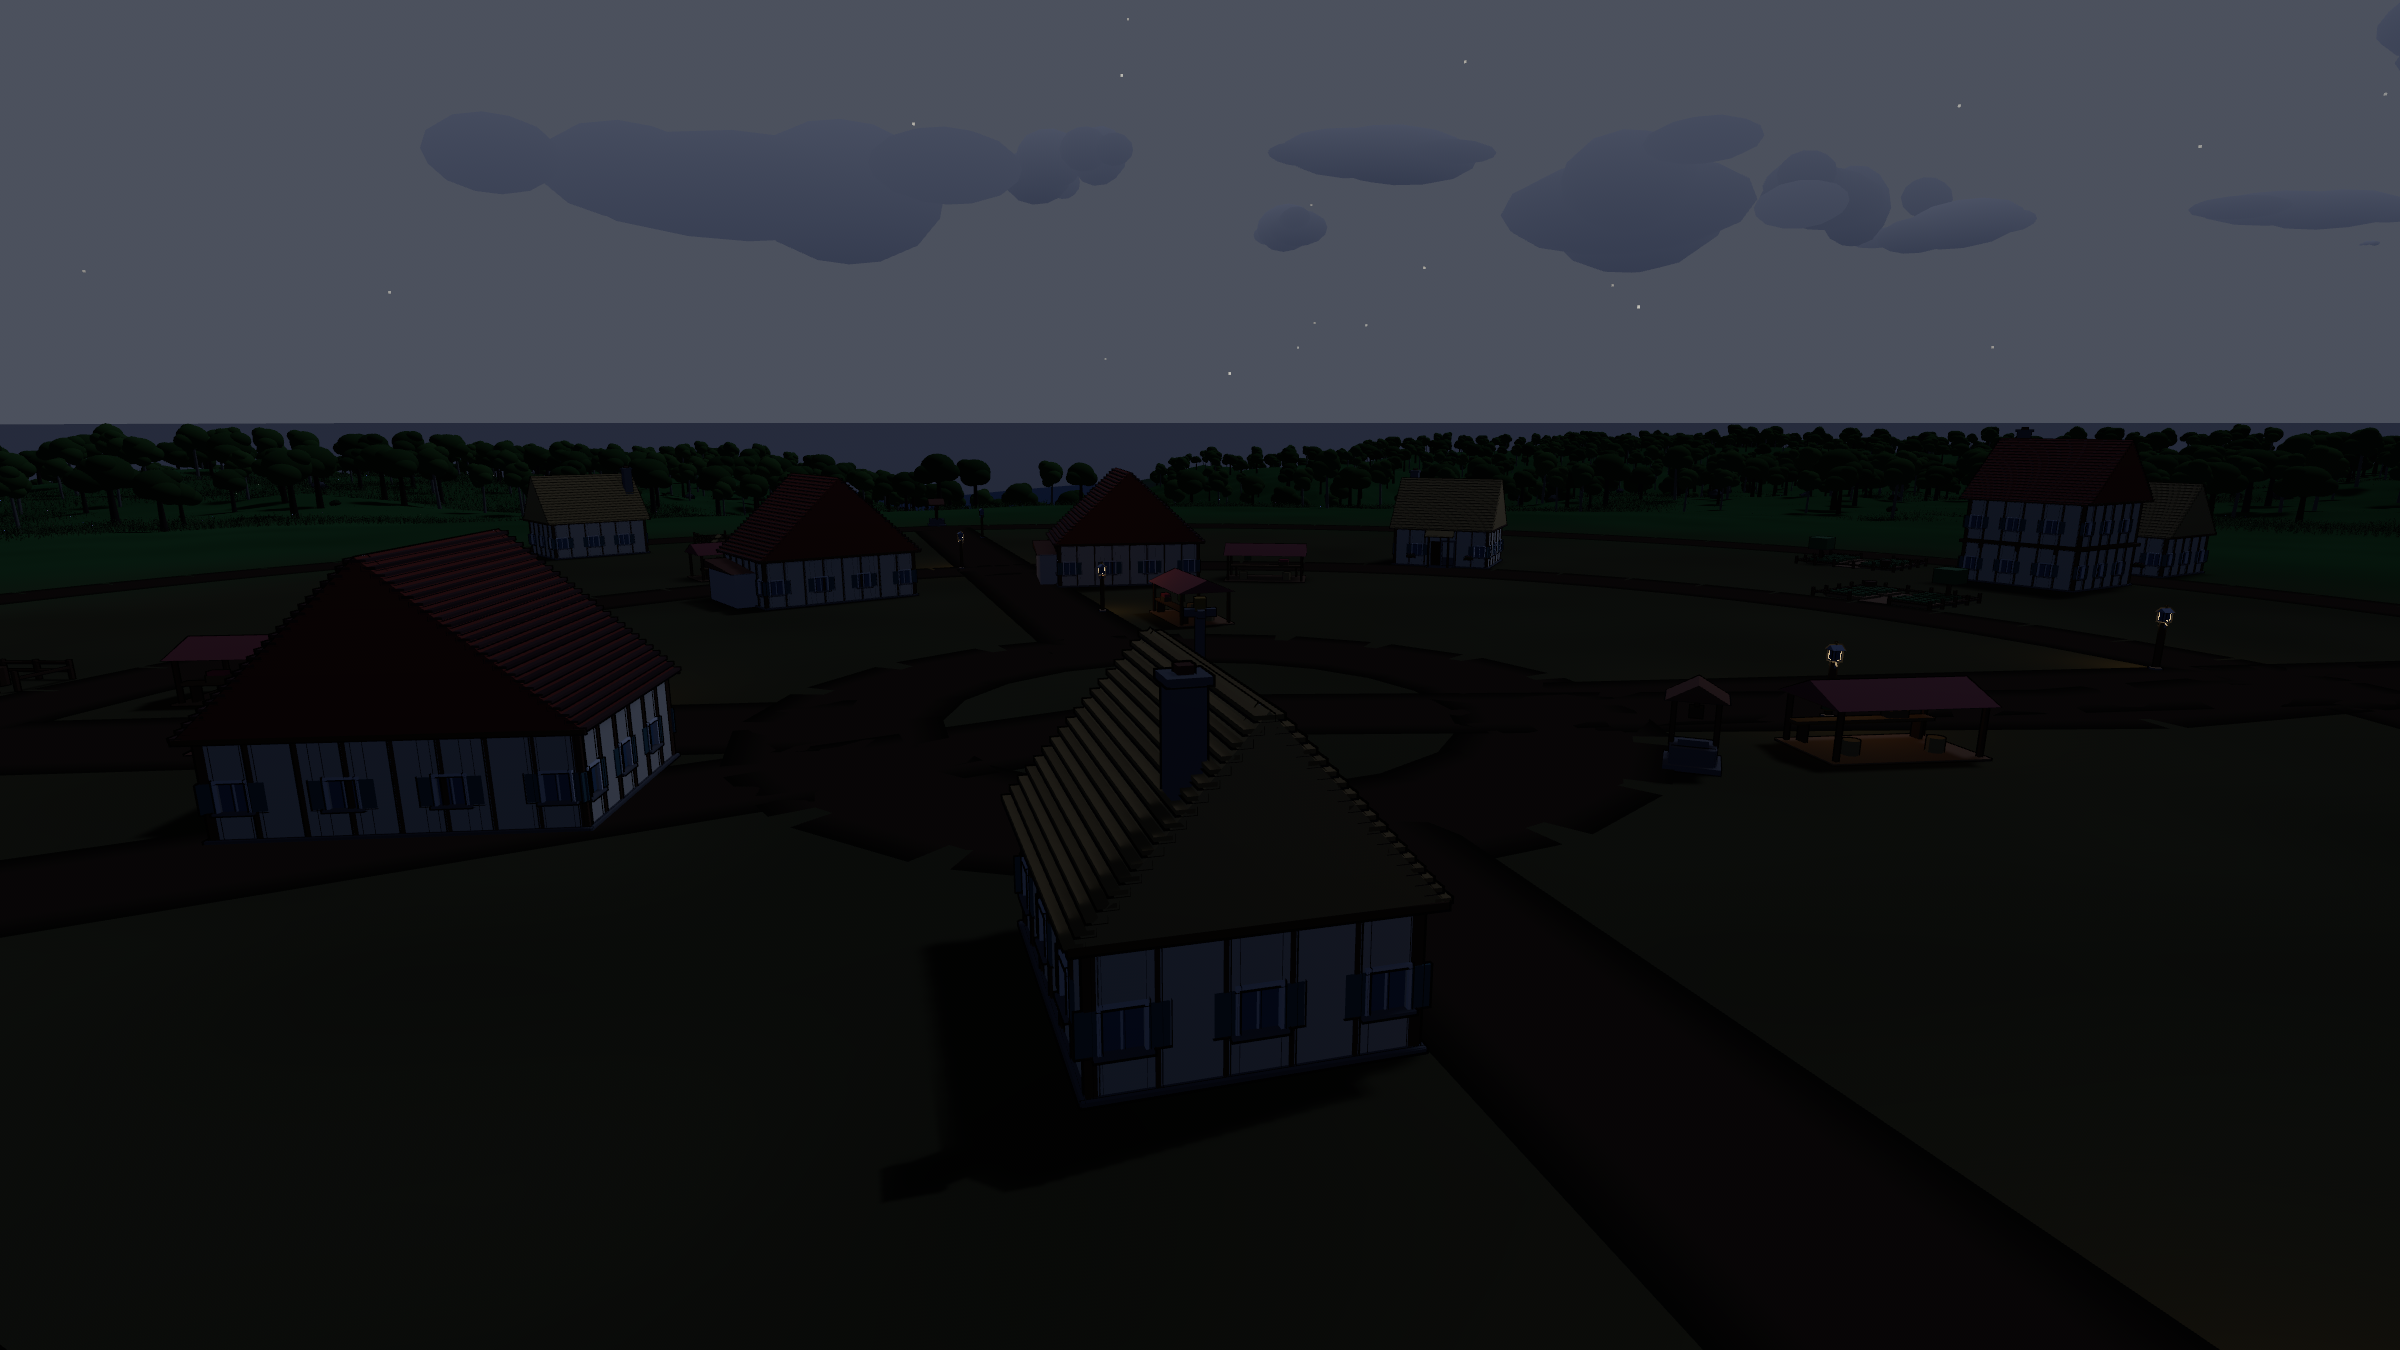
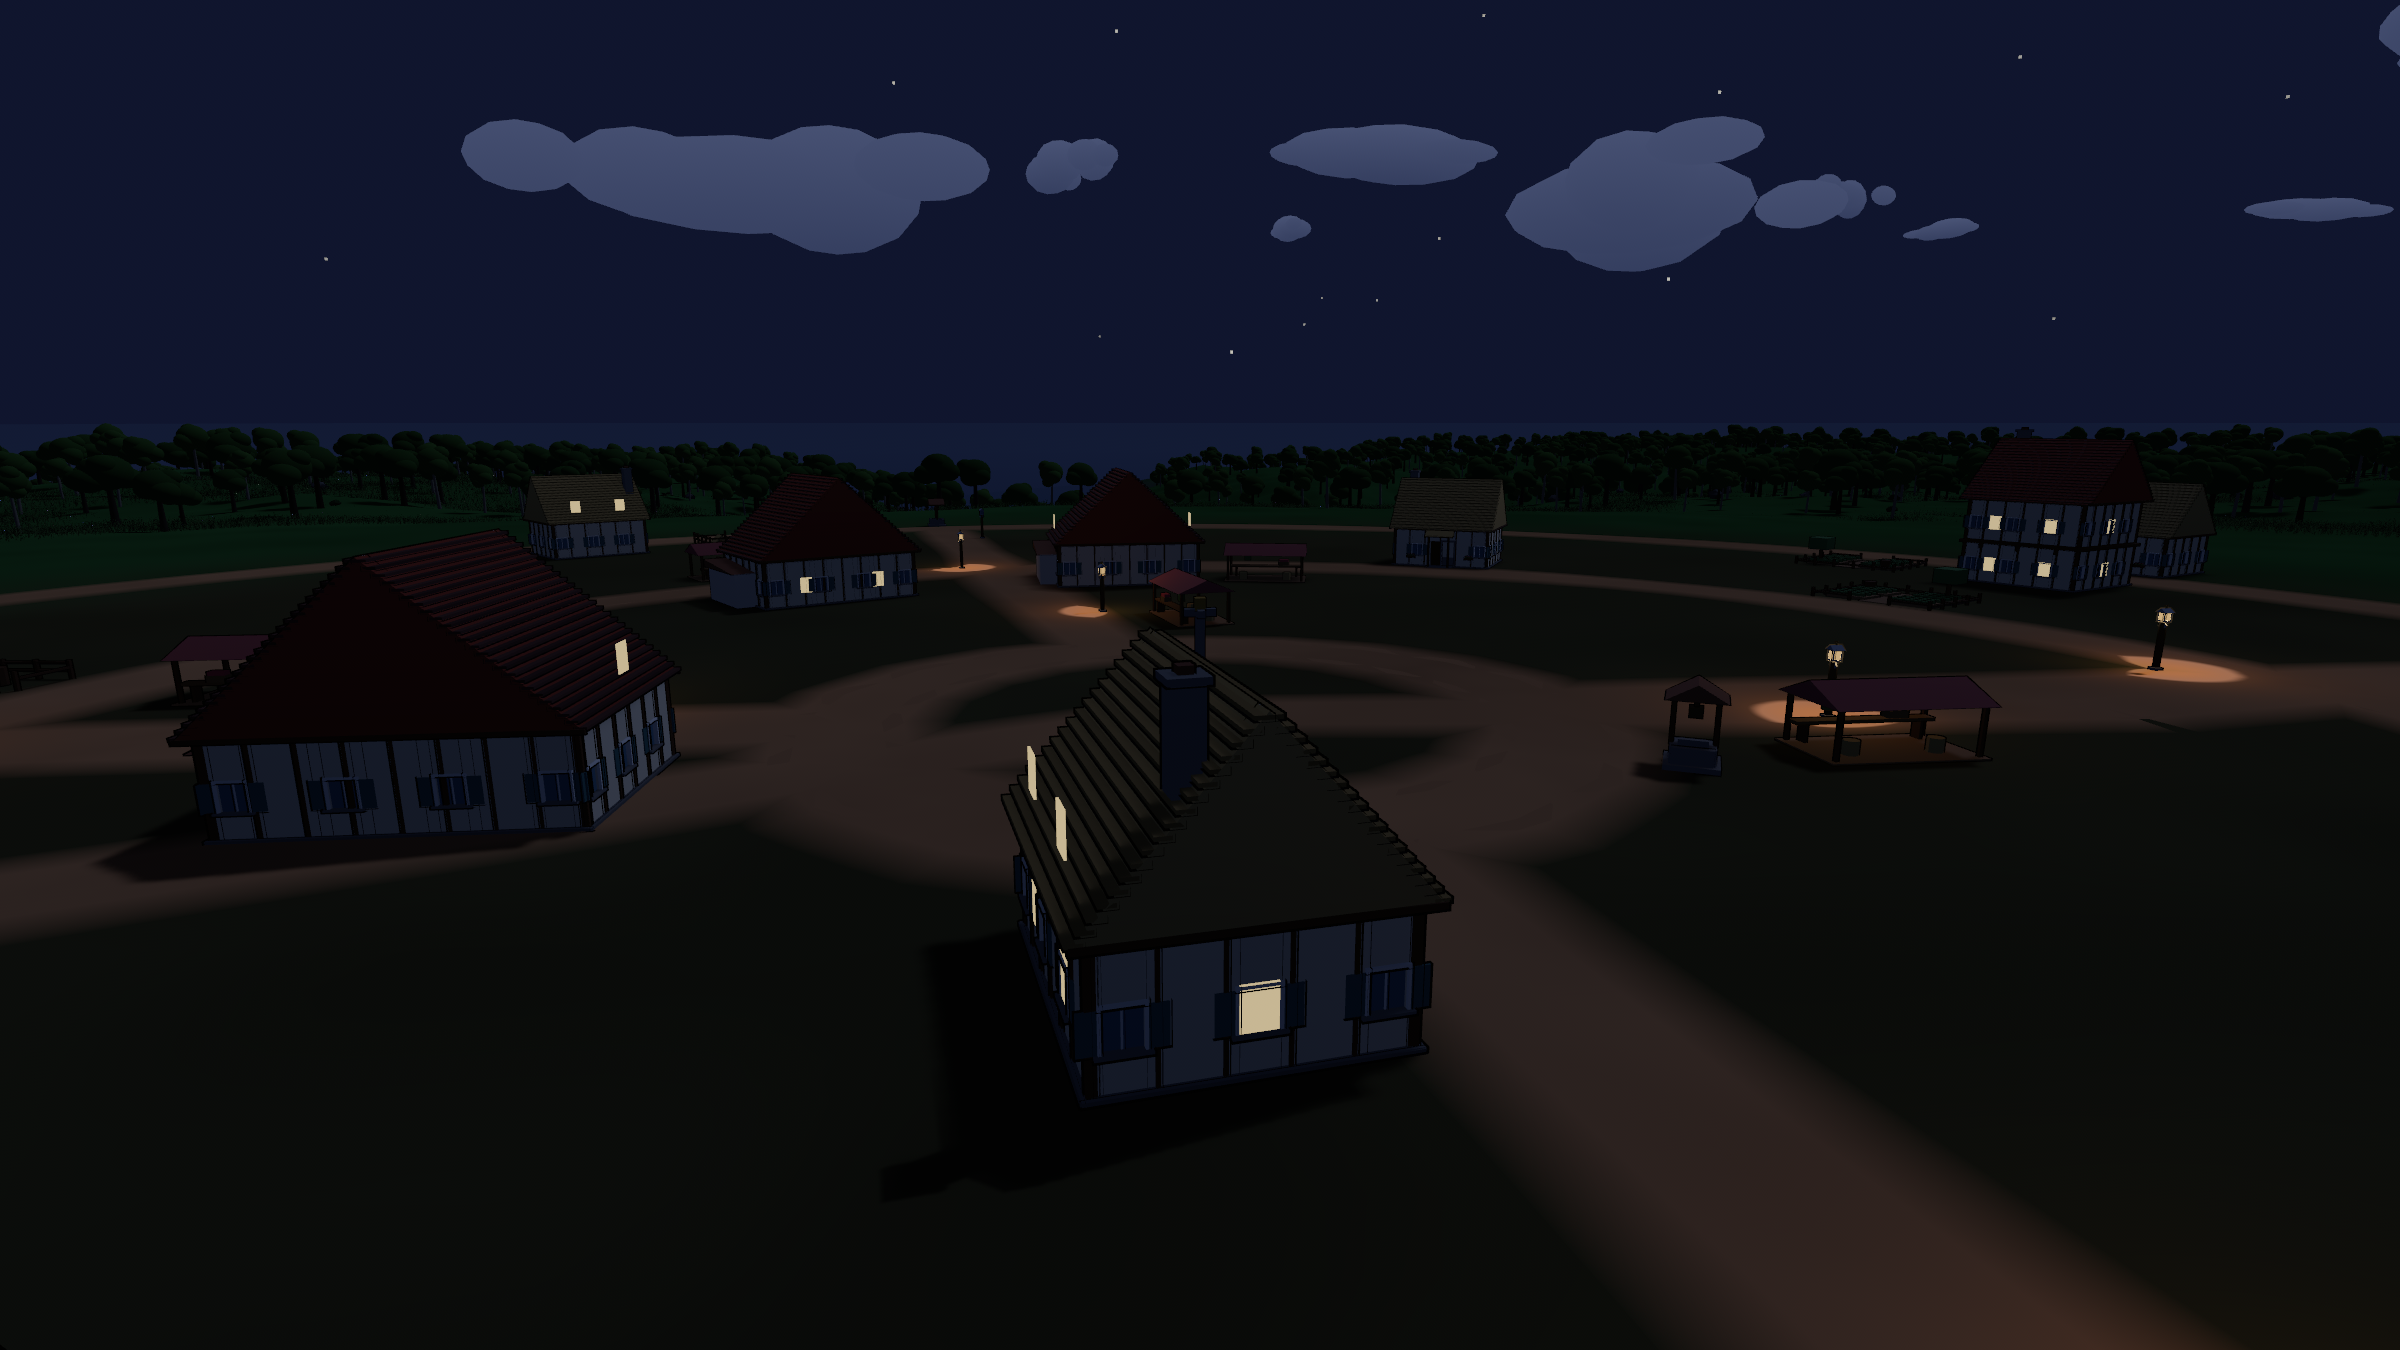
Light the windows, so a settlement reads as inhabited after dark
Lamps lit the street and left the buildings as black slabs against a black sky,
which is the opposite of what a place looks like at night. What says people live
here, from outside, is not the street lighting - it is that some of the windows
are on and most are not.

Which storeys are awake comes from a hash of the building's own position, so a
tower keeps its pattern however often it is streamed in and out, and about a
third are in at any time.

The two ages need different glass. A tower's facade is a curtain wall and a lit
floor is a lit BAND the width of it; a cottage has windows in a wall, and
lighting the whole face of one would read as a building on fire. So the old world
gets panes the size of the windows that are actually there - two across the front
and one down each flank, because a lit room shows at whichever window somebody is
standing near.

Moonlight was already there at 900 lux with its own note about not making a night
that is a black screen with a HUD on it. The gap was never the wilderness; it was
that the towns in it had nobody home.

diff --git a/src/world/lamp.rs b/src/world/lamp.rs
@@ -103,6 +103,45 @@ struct Glass;
 /// How much brighter than its colour the glass burns.
 const GLASS_GLOWS: f32 = 6.0;
 
+/// A storey of a city building with somebody still in it.
+///
+/// # A city with nobody home
+///
+/// Lamps light the street and leave the towers as black slabs against a black sky,
+/// which is the opposite of what a city looks like at night: what says "people live
+/// here" from a distance is not the street lighting, it is that some of the windows
+/// are on and most are not.
+///
+/// A band of glass per lit storey, sat just proud of the facade and emissive, so it
+/// reads at any distance and costs one box. Which storeys are lit comes from a hash
+/// of the building's own position, so a tower's pattern is its own and does not
+/// change as you walk toward it.
+#[derive(Component)]
+struct Awake;
+
+/// How far away a city's windows are still worth lighting, in metres.
+///
+/// Much further than the lamps: a lit tower is what you SEE a city by, and the
+/// whole point is that it reads from outside.
+const AWAKE_WITHIN: f32 = 900.0;
+
+/// What share of a city's storeys have somebody in at night.
+const AWAKE_SHARE: f32 = 0.34;
+
+/// A storey, floor to floor, in each age of the world - `FLOOR_TALL` and `STOREY`
+/// in `dev/art/town.py`.
+const FLOOR_TALL: f32 = 3.4;
+const STOREY: f32 = 3.6;
+
+/// How wide and tall a cottage's window is, in metres, and how far up its storey.
+const PANE: Vec2 = Vec2::new(0.9, 1.15);
+const PANE_UP: f32 = 1.7;
+
+/// What a lit window is coloured. Warmer and paler than a street lamp: it is a room
+/// with a lamp in it seen through glass, not the lamp itself.
+const INDOORS: Color = Color::srgb(1.0, 0.90, 0.68);
+const WINDOW_GLOWS: f32 = 2.6;
+
 /// Stands every lamp near the warden, and takes down the ones left behind.
 pub fn stand_the_lamps(
     mut commands: Commands,
@@ -252,13 +291,127 @@ pub fn light_them_at_night(
     }
 }
 
+/// Turns the lights on in the towers.
+pub fn light_the_windows(
+    mut commands: Commands,
+    mut meshes: ResMut<Assets<Mesh>>,
+    mut paints: ResMut<Assets<StandardMaterial>>,
+    mut pane: Local<Option<(Handle<Mesh>, Handle<StandardMaterial>)>>,
+    clock: Res<crate::sky::TimeOfDay>,
+    anchors: Query<&GlobalTransform, With<StreamAnchor>>,
+    towers: Query<(Entity, &GlobalTransform, &crate::world::town::Standing)>,
+    awake: Query<(Entity, &ChildOf), With<Awake>>,
+) {
+    let Some(anchor) = anchors.iter().next() else {
+        return;
+    };
+    let here = anchor.translation();
+    let up = crate::util::smoothstep(LIT_BELOW, FULLY_LIT_AT, clock.sun_height());
+
+    // By day every window is off, and the panes come down rather than being left
+    // black - a dark quad over the glass is worse than no quad at all.
+    if up <= 0.0 {
+        for (entity, _) in &awake {
+            commands.entity(entity).despawn();
+        }
+        return;
+    }
+
+    let (mesh, paint) = pane
+        .get_or_insert_with(|| {
+            (
+                meshes.add(Cuboid::new(1.0, 1.0, 1.0)),
+                paints.add(StandardMaterial {
+                    base_color: INDOORS,
+                    emissive: LinearRgba::from(INDOORS) * WINDOW_GLOWS,
+                    unlit: true,
+                    ..default()
+                }),
+            )
+        })
+        .clone();
+
+    for (entity, at, standing) in &towers {
+        let Some(storeys) = standing.what.storeys() else {
+            continue;
+        };
+        if at.translation().distance(here) > AWAKE_WITHIN {
+            continue;
+        }
+        if awake.iter().any(|(_, of)| of.parent() == entity) {
+            continue;
+        }
+
+        let foot = at.translation();
+        let footprint = standing.what.footprint();
+        // Which storeys are in, from where the building STANDS - so a tower keeps
+        // its own pattern however often it is streamed in and out.
+        let seed = foot.x.to_bits() ^ foot.z.to_bits();
+        commands.entity(entity).with_children(|on| {
+            for storey in 0..storeys {
+                let roll = crate::world::town::unit(seed, storey as u32 * 31 + 7);
+                if roll > AWAKE_SHARE {
+                    continue;
+                }
+                // Where the light shows, which depends on what the wall is made of.
+                //
+                // A tower's facade is a curtain wall and a lit floor is a lit BAND
+                // the width of it. A cottage has windows in a wall: lighting the
+                // whole face of one would read as a building on fire, so it gets
+                // panes the size of the windows that are actually there.
+                let panes: Vec<(Vec3, Vec3)> = if standing.what.glazed_in_bands() {
+                    let z = storey as f32 * FLOOR_TALL + FLOOR_TALL * 0.67;
+                    // On the two long faces only. A pane a face is four times the
+                    // cost for a building you can see two sides of.
+                    vec![
+                        (
+                            Vec3::new(footprint.x * 0.88, FLOOR_TALL * 0.5, 0.06),
+                            Vec3::new(0.0, z, footprint.y * 0.5 + 0.04),
+                        ),
+                        (
+                            Vec3::new(0.06, FLOOR_TALL * 0.5, footprint.y * 0.88),
+                            Vec3::new(footprint.x * 0.5 + 0.04, z, 0.0),
+                        ),
+                    ]
+                } else {
+                    let z = storey as f32 * STOREY + PANE_UP;
+                    // Two panes across the front and one down each flank - a lit
+                    // room shows at whichever window somebody is standing near.
+                    let mut panes = Vec::new();
+                    for side in [-1.0_f32, 1.0] {
+                        panes.push((
+                            Vec3::new(PANE.x, PANE.y, 0.06),
+                            Vec3::new(side * footprint.x * 0.24, z, -footprint.y * 0.5 - 0.04),
+                        ));
+                        panes.push((
+                            Vec3::new(0.06, PANE.y, PANE.x),
+                            Vec3::new(side * (footprint.x * 0.5 + 0.04), z, 0.0),
+                        ));
+                    }
+                    panes
+                };
+                for (size, at) in panes {
+                    on.spawn((
+                        Awake,
+                        Mesh3d(mesh.clone()),
+                        MeshMaterial3d(paint.clone()),
+                        Transform::from_translation(at).with_scale(size),
+                        Visibility::default(),
+                        bevy::pbr::NotShadowCaster,
+                    ));
+                }
+            }
+        });
+    }
+}
+
 pub struct LampPlugin;
 
 impl Plugin for LampPlugin {
     fn build(&self, app: &mut App) {
         app.add_systems(
             Update,
-            (stand_the_lamps, light_them_at_night)
+            (stand_the_lamps, light_them_at_night, light_the_windows)
                 .chain()
                 .run_if(crate::build::a_world_is_up),
         );

diff --git a/src/world/town.rs b/src/world/town.rs
@@ -553,6 +553,37 @@ impl Building {
         }
     }
 
+    /// How many floors this has, and how tall one is.
+    ///
+    /// Measured off the exported models, like the footprints, and kept in step with
+    /// `FLOOR_TALL` in `dev/art/town.py`. Only the city knows: the old world's
+    /// buildings have windows placed one at a time rather than a band a storey.
+    pub fn storeys(self) -> Option<usize> {
+        match self {
+            // 19.7 m, 37.6 m and 57.1 m over a 3.4 m floor, less their crowns.
+            Building::CityBlock => Some(5),
+            Building::CityTower => Some(10),
+            Building::CitySpire => Some(15),
+            // The old world, on its own 3.6 m storey. Two floors each, which is what
+            // these are built with - see `shell` in `dev/art/town.py`.
+            Building::Cottage | Building::Townhouse | Building::Shop => Some(2),
+            Building::GuildHall => Some(2),
+            _ => None,
+        }
+    }
+
+    /// Whether its windows come as a band of glass a storey or as separate panes.
+    ///
+    /// A tower's facade is a curtain wall and a lit floor is a lit BAND. A cottage
+    /// has windows in a wall, and lighting the whole wall of one would read as a
+    /// building on fire.
+    pub fn glazed_in_bands(self) -> bool {
+        matches!(
+            self,
+            Building::CityBlock | Building::CityTower | Building::CitySpire
+        )
+    }
+
     /// Whether this is a yard rather than a building.
     ///
     /// A yard is ground with things standing on it - beds, a bench, a stack of
@@ -1970,7 +2001,7 @@ pub fn name_of(site: &Site, country: terrain_core::region::Country, index: usize
     Some(list[index % list.len()])
 }
 
-fn unit(seed: u32, salt: u32) -> f32 {
+pub fn unit(seed: u32, salt: u32) -> f32 {
     let mut x = seed
         .wrapping_mul(0x9E37_79B9)
         .wrapping_add(salt.wrapping_mul(0x85EB_CA6B));
